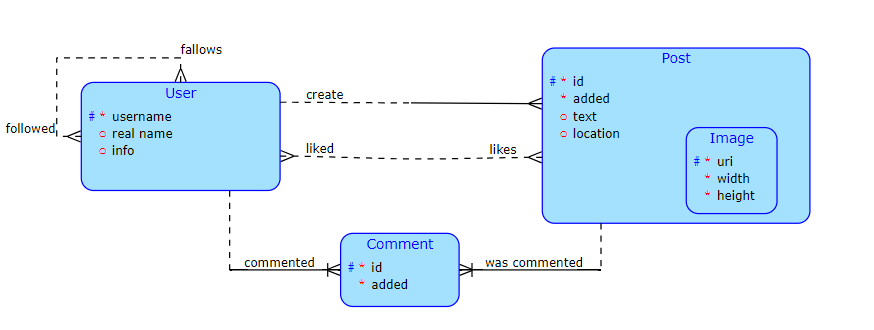
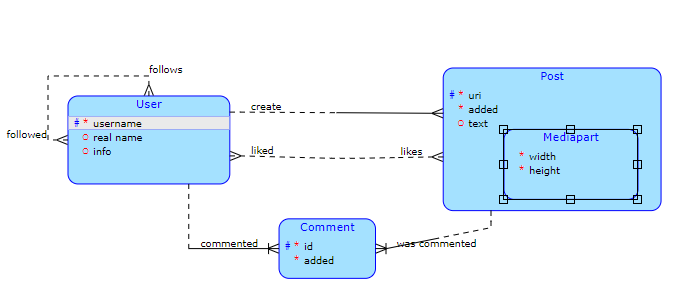
Update domain

Changed region(s): [[0.0, 0.1212, 0.9882, 0.7273], [0.2471, 0.697, 0.7103, 0.9394], [0.0618, 0.1212, 0.2471, 0.1818]]

diff --git a/src/main/java/cz/cvut/fit/tjv/social_network/domain/Post.java b/src/main/java/cz/cvut/fit/tjv/social_network/domain/Post.java
@@ -1,10 +1,14 @@
 package cz.cvut.fit.tjv.social_network.domain;
 
+import ch.qos.logback.core.util.LocationUtil;
 import jakarta.persistence.*;
 import lombok.Getter;
 import lombok.Setter;
+import org.springframework.beans.factory.parsing.Location;
+
 
 import java.net.URI;
+import java.time.LocalDateTime;
 import java.util.HashSet;
 import java.util.Set;
 
@@ -16,8 +20,11 @@ public class Post implements DomainEntity<URI>{
     @OneToOne  // TODO: 28.09.2023 Zkontrolovat zda je to OK
     @JoinColumn(nullable = false)
     private UserAccount author;
+    @Column(nullable = false)
+    private LocalDateTime added;
     @ManyToMany // TODO: 28.09.2023 Zkontrolovat zda je to OK
     private final Set<UserAccount> likes = new HashSet<>();
+    private String text;
 
     public Post() {
     }

diff --git a/src/main/java/cz/cvut/fit/tjv/social_network/domain/Comments.java b/src/main/java/cz/cvut/fit/tjv/social_network/domain/Comments.java
@@ -19,4 +19,19 @@ public class Comments implements DomainEntity<CommentsKey> {
     public CommentsKey getID() {
         return null;
     }
+
+    @Override
+    public boolean equals(Object o) {
+        if (this == o) return true;
+        if (o == null || getClass() != o.getClass()) return false;
+
+        Comments comments = (Comments) o;
+
+        return key.equals(comments.key);
+    }
+
+    @Override
+    public int hashCode() {
+        return key.hashCode();
+    }
 }

diff --git a/src/main/java/cz/cvut/fit/tjv/social_network/repository/UserRepository.java b/src/main/java/cz/cvut/fit/tjv/social_network/repository/UserRepository.java
@@ -8,7 +8,6 @@ import org.springframework.stereotype.Repository;
 
 import java.util.Collection;
 @Repository
-@Primary
 public interface UserRepository extends CrudRepository<UserAccount,String> {
     @Query("select followed.username from user_account.followed followed where username(followed.username)" +
             "union select followers.username from user_account followers where username(followers.username)")
